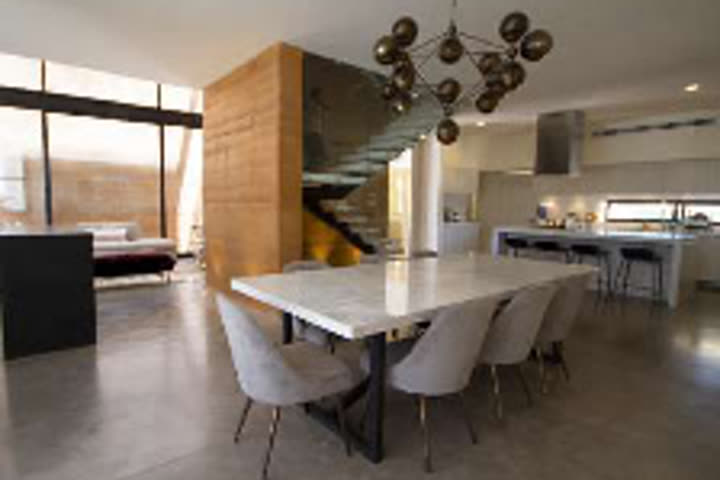
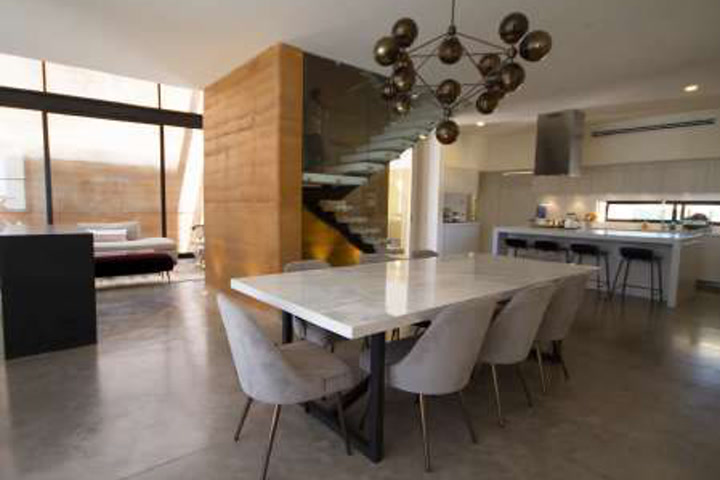
Add Ekeberg 02–04 and Wholesum Harvest 02–05 galleries.
Place the matching 2023 portfolio views on those project pages only. Upgrade the San Javier and Wholesum covers with the same shots at portfolio resolution. Leave San Javier 07 and Wholesum 06–07 until those files are on disk.

diff --git a/works/wholesum-harvest/index.html b/works/wholesum-harvest/index.html
@@ -52,7 +52,7 @@
 
 <figure class="cover">
   <div class="wrap">
-    <img src="01-cover.jpg" alt="Los Janos village courtyard: brick lattice, ventilation towers, patterned paving, and residents in an arid landscape." width="236" height="135">
+    <img src="01-cover.jpg" alt="Los Janos village courtyard: brick lattice, ventilation towers, patterned paving, and residents in an arid landscape." width="472" height="270">
     <div class="cover-cap">
       <span class="label">01 · Courtyard</span>
       <span class="label">Los Janos</span>
@@ -77,6 +77,41 @@
       <div class="pair"><dt>Programme</dt><dd>Houses · community · sports</dd></div>
       <div class="pair"><dt>Year</dt><dd>2015</dd></div>
     </dl>
+  </div>
+
+  <div class="gallery">
+    <figure class="shot">
+      <img src="02-barrio.jpg" alt="Barrio Los Janos entrance: a rammed-earth sign with the village mark, modular houses, and desert mountains beyond." width="1774" height="996">
+      <div class="meta">
+        <span class="idx">02</span>
+        <span class="cap">Barrio Los Janos</span>
+        <span class="loc">Acceso</span>
+      </div>
+    </figure>
+    <figure class="shot">
+      <img src="03-house.jpg" alt="Single-story house with layered rammed-earth walls, a dark metal porch, and desert planting." width="1080" height="767">
+      <div class="meta">
+        <span class="idx">03</span>
+        <span class="cap">Rammed-earth house</span>
+        <span class="loc">Vivienda</span>
+      </div>
+    </figure>
+    <figure class="shot">
+      <img src="04-plan.jpg" alt="Village masterplan: modular housing blocks, courtyards, a perimeter road with parking, and a natural edge to one side." width="1692" height="1736">
+      <div class="meta">
+        <span class="idx">04</span>
+        <span class="cap">Village masterplan</span>
+        <span class="loc">Conjunto</span>
+      </div>
+    </figure>
+    <figure class="shot">
+      <img src="05-unit.jpg" alt="Two-bedroom housing unit: living and dining below, kitchen island, bathroom between two bedrooms." width="2454" height="1698">
+      <div class="meta">
+        <span class="idx">05</span>
+        <span class="cap">Housing unit</span>
+        <span class="loc">Módulo</span>
+      </div>
+    </figure>
   </div>
 
   <div class="credits">

diff --git a/works/ekeberg/index.html b/works/ekeberg/index.html
@@ -79,6 +79,33 @@
     </dl>
   </div>
 
+  <div class="gallery">
+    <figure class="shot">
+      <img src="02-views.jpg" alt="Viewpoint map: a yellow path with photographs of the harbour, hillside, and Ekeberg restaurant along the route." width="539" height="319">
+      <div class="meta">
+        <span class="idx">02</span>
+        <span class="cap">Views along the path</span>
+        <span class="loc">Til byen</span>
+      </div>
+    </figure>
+    <figure class="shot">
+      <img src="03-path.jpg" alt="Site plan with a yellow path from the urban grid across the rail corridor and up Ekeberg hill." width="447" height="319">
+      <div class="meta">
+        <span class="idx">03</span>
+        <span class="cap">Path from harbour to hill</span>
+        <span class="loc">Plan</span>
+      </div>
+    </figure>
+    <figure class="shot">
+      <img src="04-waterfront.jpg" alt="Panoramic view of the waterfront and Ekeberg hill, with the pedestrian connection drawn in line and marked in yellow." width="975" height="322">
+      <div class="meta">
+        <span class="idx">04</span>
+        <span class="cap">Waterfront and hill</span>
+        <span class="loc">Promenaden</span>
+      </div>
+    </figure>
+  </div>
+
   <div class="credits">
     <h2>Credits</h2>
     <div class="credit">

diff --git a/works/san-javier-245/index.html b/works/san-javier-245/index.html
@@ -52,7 +52,7 @@
 
 <figure class="cover">
   <div class="wrap">
-    <img src="01-cover.jpg" alt="Interior of San Javier 245: dining table, rammed-earth wall, marble stair with glass railing, and kitchen beyond." width="224" height="161">
+    <img src="01-cover.jpg" alt="Interior of San Javier 245: dining table, rammed-earth wall, marble stair with glass railing, and kitchen beyond." width="449" height="323">
     <div class="cover-cap">
       <span class="label">01 · Interior</span>
       <span class="label">Rammed earth</span>
